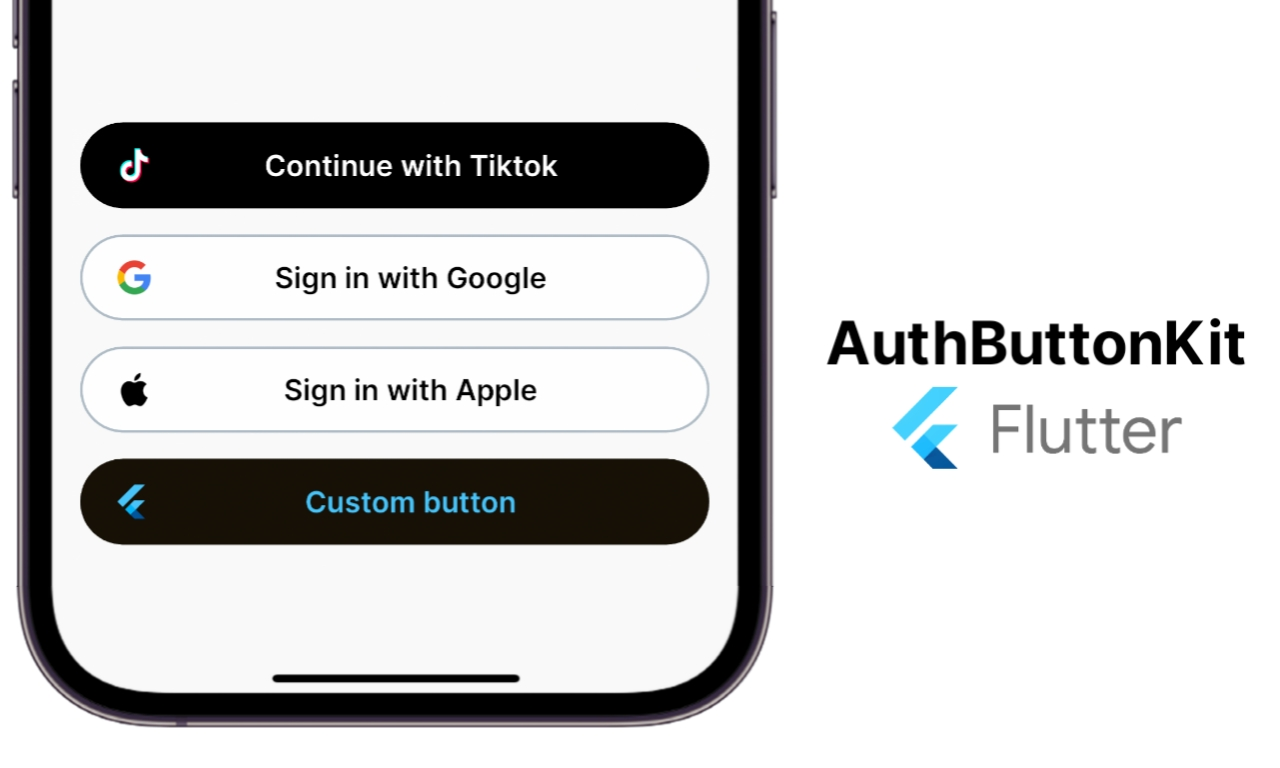
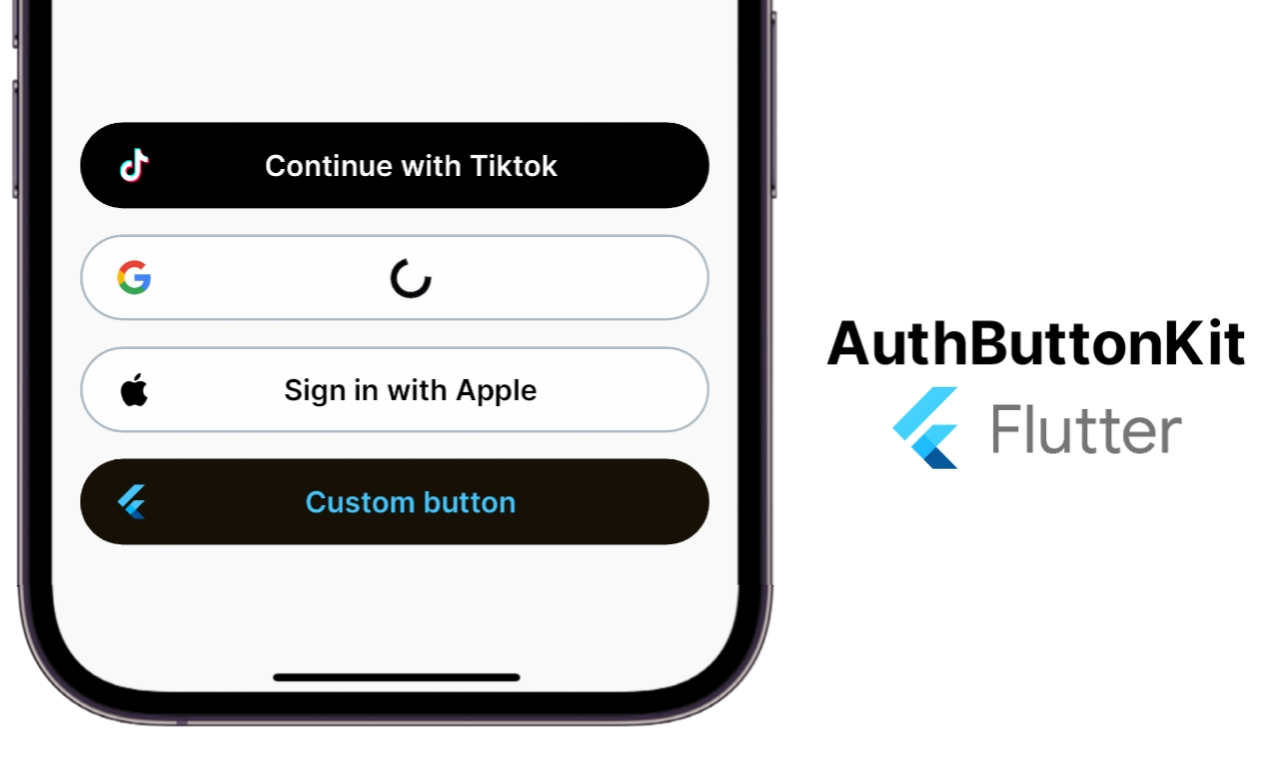
Added better image

diff --git a/README.md b/README.md
@@ -32,7 +32,7 @@ AuthMultiButtons(
 
 ```AuthButtonKit``` is a Flutter front end package for Android and IOS that allows you to easily create beautiful login buttons.
 The buttons are designed to be beautiful and to please the user, they are specially designed for mobile devices and it is not recommended to use them on computers screens.
-It will automatically adapt the colors of the text and the loader to the background color to ensure a good contrast.
+It will automatically adapt the colors of the logo, the text and the loader to the background color to ensure a good contrast.
 
 ## Usages
 

diff --git a/CHANGELOG.md b/CHANGELOG.md
@@ -1,4 +1,4 @@
-## [0.9.5-0.9.8] - 2023.08.28
+## [0.9.5-0.9.9] - 2023.08.28
 
 * Improved readme
 
